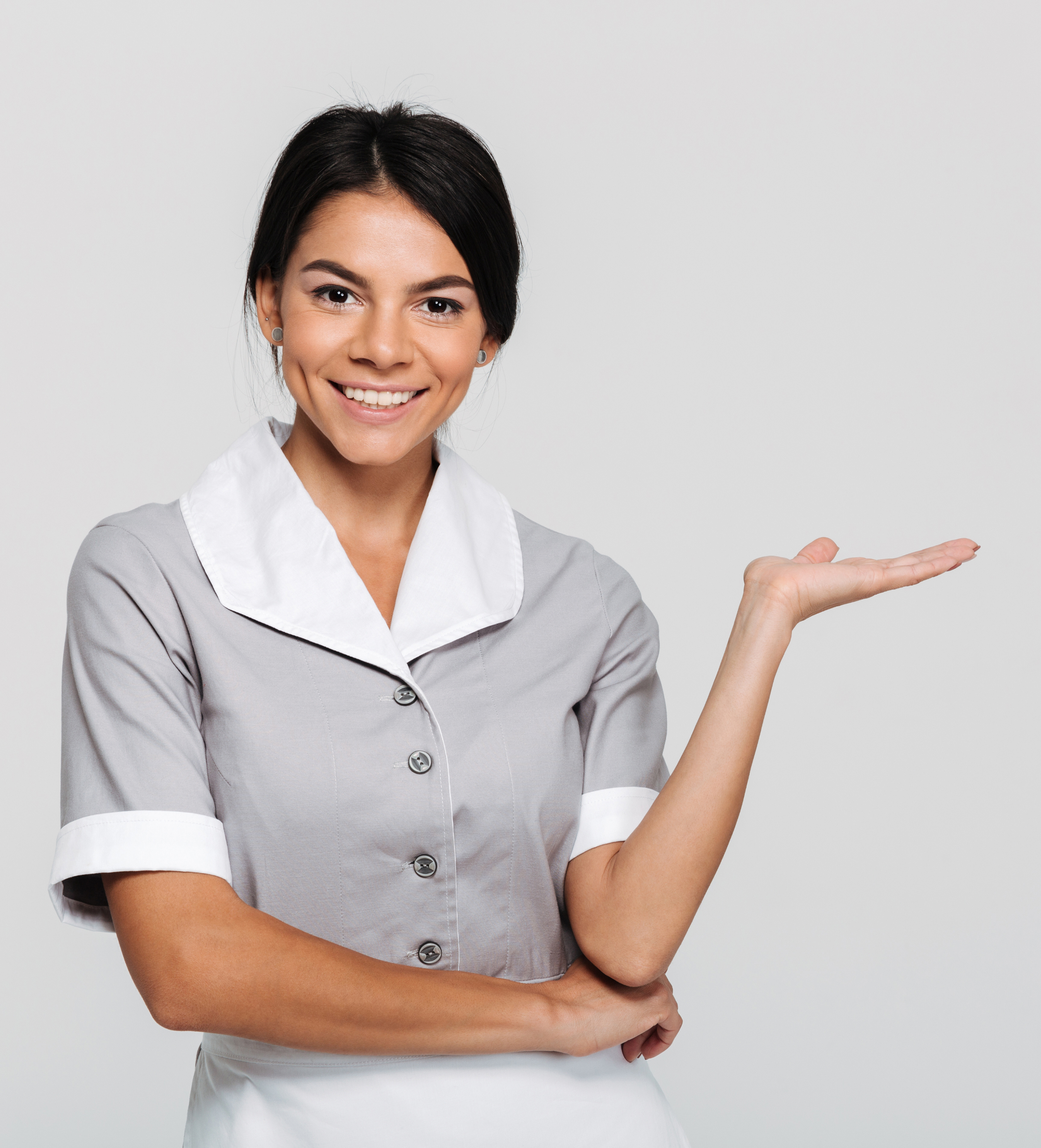
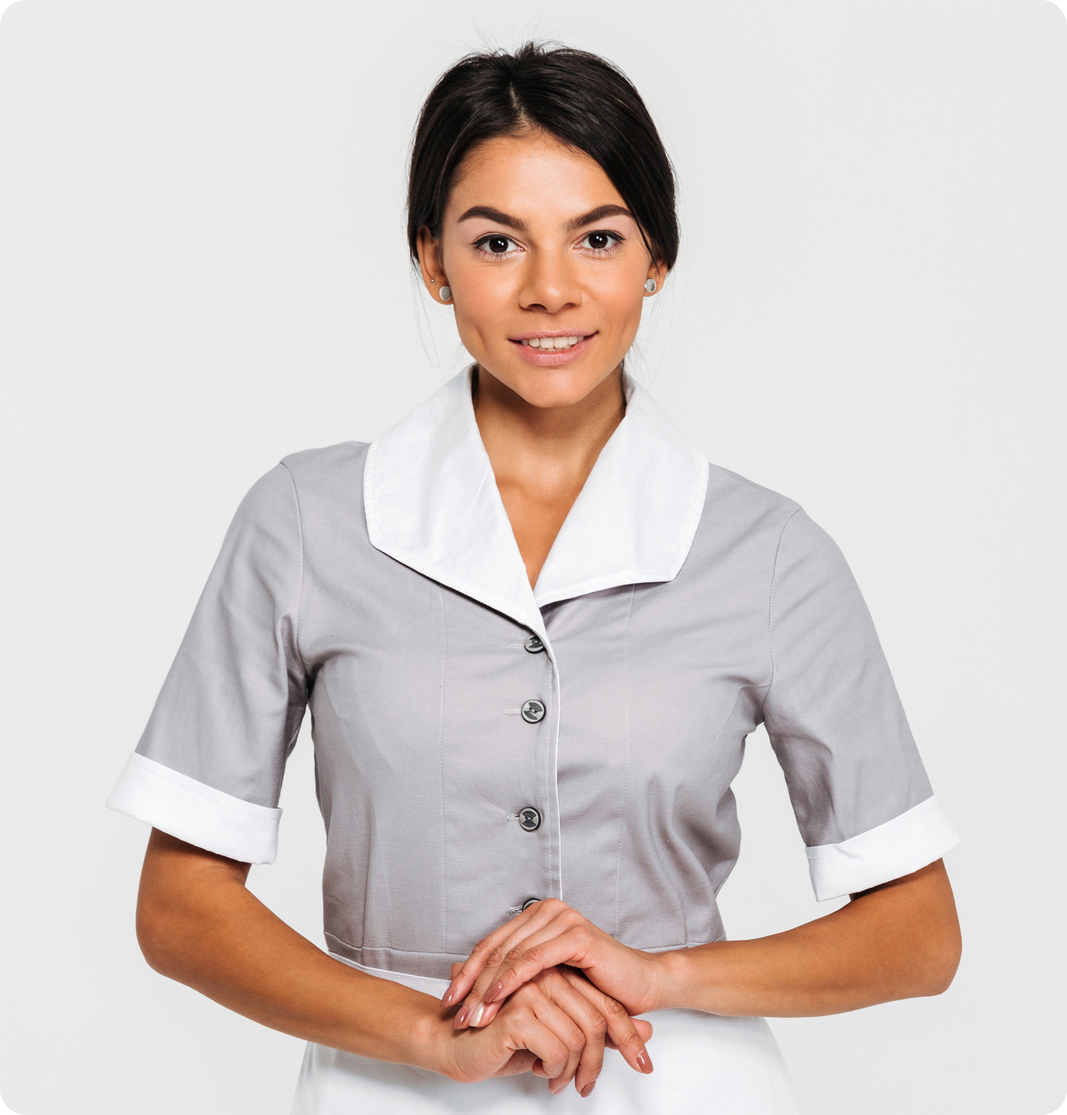
new maid section add

diff --git a/components/home/MaidsHero.tsx b/components/home/MaidsHero.tsx
@@ -1,0 +1,67 @@
+// components/MaidsHero.tsx
+import imageSrc from "@/public/home/maid-hero.png";
+import Image from "next/image";
+import ButtonReuseable from "../reusable/CustomButton";
+
+
+export default function MaidsHero() {
+    const bullets = [
+        "No placement fee",
+        "Interview with potential employers",
+        "Boarding house available",
+        "Work happy!",
+    ]
+
+    return (
+        <section className="">
+            <div className="container">
+                <div className="relative grid grid-cols-1 md:grid-cols-2 items-center overflow-hidden rounded-2xl bg-[#ECFAFB] shadow-sm ">
+                    {/* Left content */}
+                    <div className="px-6 md:px-10 py-8 md:py-10">
+                        <h2 className="text-2xl md:text-3xl lg:text-5xl font-bold text-headerColor leading-tight">
+                            Maids come to us for new jobs
+                        </h2>
+                        <ul className="mt-5 space-y-3 text-slate-700">
+                            {bullets.map((b, i) => (
+                                <li key={i} className="flex items-start gap-3">
+                                    <span className="mt-0.5 inline-flex h-6 w-6 items-center justify-center rounded-full bg-primaryColor">
+                                        {/* check icon */}
+                                        <svg
+                                            xmlns="http://www.w3.org/2000/svg"
+                                            className="h-4 w-4 text-whiteColor"
+                                            viewBox="0 0 24 24"
+                                            fill="currentColor"
+                                        >
+                                            <path d="M9 16.2 4.8 12l-1.4 1.4L9 19 21 7l-1.4-1.4z" />
+                                        </svg>
+                                    </span>
+                                    <span className="text-base md:text-lg">{b}</span>
+                                </li>
+                            ))}
+                        </ul>
+
+                        <div
+                            className="mt-6 ">
+                            <ButtonReuseable title="Maid Sign up" className="!text-headerColor !font-medium" />
+                        </div>
+                    </div>
+
+                    {/* Right image */}
+                    <div className=" h-full md:h-full"
+                        style={{ backgroundImage: "url('/home/maid-bg.png')", backgroundSize: "cover", backgroundPosition: "center", backgroundRepeat: "no-repeat" }}>
+                        <div className="w-[90%] mx-auto h-full">
+
+                            <Image
+                                src={imageSrc}
+                                alt="Smiling maid"
+                                width={600}
+                                height={600}
+                                className=" h-full w-full object-contain  "
+                            />
+                        </div>
+                    </div>
+                </div>
+            </div>
+        </section>
+    );
+}

diff --git a/app/(Frond-End)/page.tsx b/app/(Frond-End)/page.tsx
@@ -2,6 +2,7 @@ import Banner from "@/components/home/Banner";
 import InfoBanner from "@/components/home/InfoBanner";
 import InterviewSection from "@/components/home/InterviewSection";
 import JobList from "@/components/home/JobList";
+import MaidsHero from "@/components/home/MaidsHero";
 
 
 
@@ -11,6 +12,7 @@ export default function Home() {
       <InfoBanner />
       <Banner />
       <InterviewSection />
+      <MaidsHero />
       <JobList />
     </div>
   );
